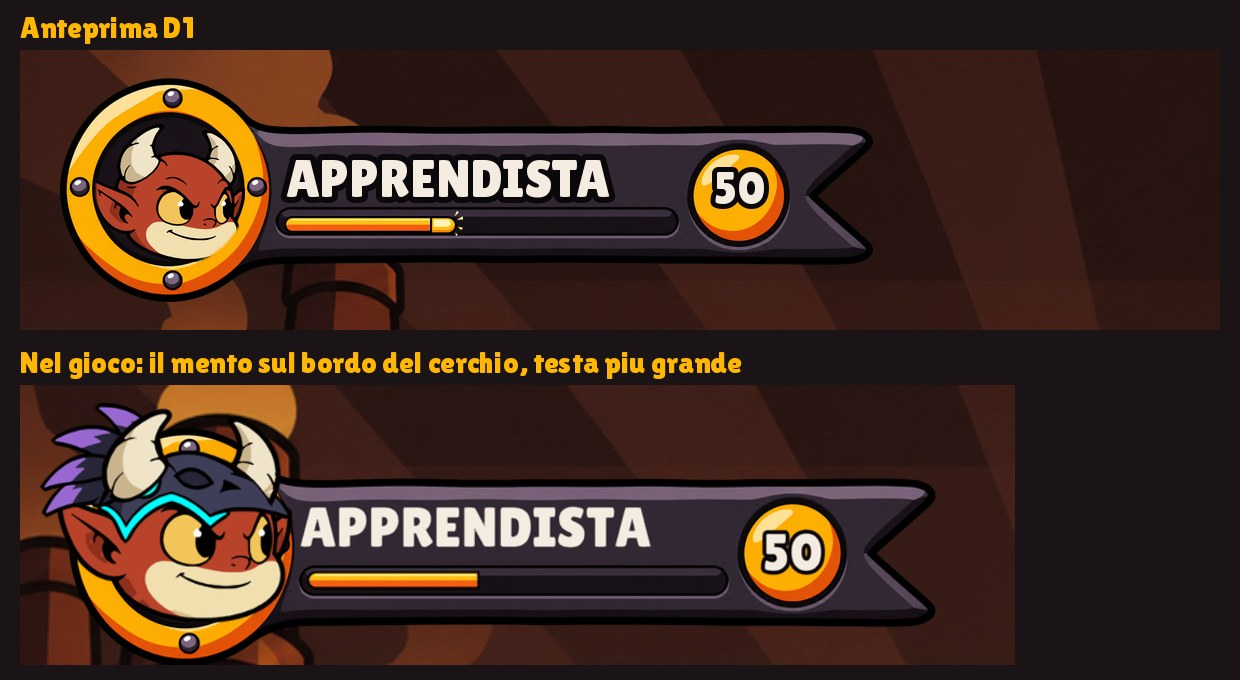
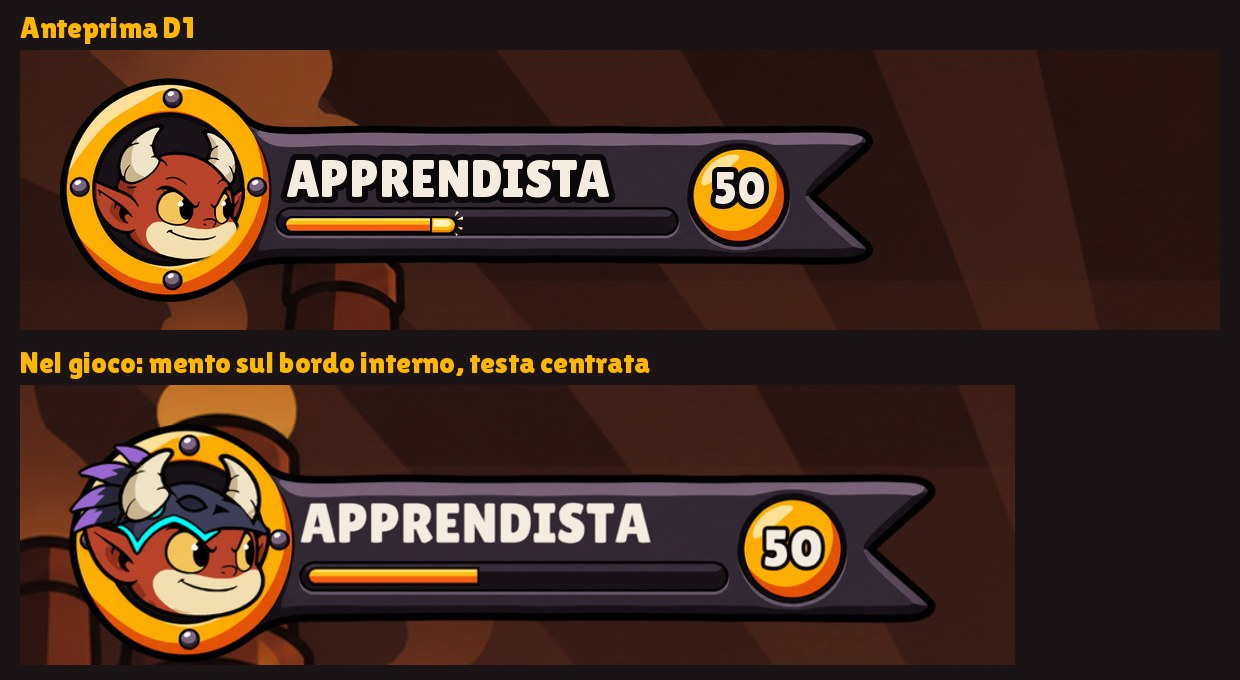
Home: testa nel cerchio col mento sul bordo interno, contorno basso dentro il disco
Claude-Session: https://claude.ai/code/session_01XmXLjkQ96F8kQsS2vjRQ5a

Changed region(s): [[0.0306, 0.5868, 0.7661, 0.9882], [0.1226, 0.4941, 0.6129, 0.5559]]

diff --git a/docs/decisioni/interfaccia.md b/docs/decisioni/interfaccia.md
@@ -185,4 +185,4 @@ codice. Regole della roadmap: [../roadmap.md](../roadmap.md) area 21.
 | 17 nov | **Correzioni dell'audit grafico** (Sergio: «Applicale tutte», più i suoi punti; pagina dell'audit https://claude.ai/artifact/LSCFSnffDdG9izNpr4Pra9; la 14, il fazzoletto blu della storia, non si fa: «non mi interessa per ora»). **Pulsante primario**: la scritta sta al centro della faccia libera della gemma (fra la fiamma e i cristalli, misurata sul disegno: `primario_*` in `pieces.lua`), alla stessa grandezza acceso e spento; anche VAI! delle vignette e OK della scheda dell'arma sono la gemma. **Targa del profilo e targhette delle valute** più grandi (la targa del 30%), senza ingrandire disegni oltre la loro risoluzione. **Pillola della coda**: una sola (guscio, pallino rovente, scritta sempre dentro, larga quanto il testo), nella home al centro sotto il filo, negli altri menu corta sotto il filo, sul podio in alto accanto al portafoglio, in partita corta accanto all'ingranaggio; via il gettone con la testa di Favilla. **Sala d'attesa** come le altre schermate: titolo giallo, la freccia in basso a sinistra esce dalla coda (c'è scritto sotto), a destra la sola piastra TORNA AI MENU · RESTI IN CODA, niente ingranaggio. **Impostazioni**: i tasti del controller su un pannello loro, due colonne fisse. **Zaino**: pezzo scelto su tre righe corte, nomi delle famiglie accanto ai pallini, VEDI TUTTE sempre alla stessa altezza (anche in Armeria e Bottega). **Campagna**: lucchetto nell'angolo, una sola griglia, nomi lunghi su due righe, targhe dei capitoli a 16. **Podio e fine livello**: guadagni su un pannello a colonne fisse, il campo si spegne sotto, RIPROVA e CAMPAGNA sotto il filo. **Profilo**: legenda PRIMARIE e SECONDARIE sopra il danno per arma; al posto dei tondi le icone dei record di Codex (WB-069, foglio 1). **HUD**: baratto, OGGETTI, ultimo giro e nome sopra il diavoletto a 16. La riga gialla sul bordo dopo le porte della home esce con la pagina. Scelte di Claude: testi più corti dove a 16 non entravano («ESCI DALLA CODA» sulla porta della campagna, «NIENTE IN ARRIVO» e «TRA 2H» sotto EVENTI); in sala d'attesa col controller B esce dalla coda e il tasto dell'ingranaggio torna ai menu; vita e stato sopra il diavoletto a 13 (a 16 sarebbero più larghi della barra); le altre scritte piccole del punteggio (TURNO, bilancio) restano come sono, l'audit non le chiedeva. | `client/ui/kit.lua`, `client/ui/pill.lua`, `client/menu/`, `client/battle/`, questa PR |
 | 18 nov | **Codice della versione nelle IMPOSTAZIONI** (Sergio: «in futuro mettilo il codice della versione», non capiva quale APK avesse installato). In basso a destra sotto il filo, piccolo e grigio (16, allineato alla scritta HOME): «VERSIONE 48aa353», lo stesso codice della didascalia di Telegram; sugli APK e sul web di un ramo «· PROVA, NON È MAIN»; sulle build fatte a mano dall'editor «VERSIONE LOCALE». Il codice lo scrivono le Actions nelle impostazioni di build (`megablast.version`, `megablast.test` in `apk.yml` e `tools/web/build.sh`). Scelte di Claude: sotto il filo e non sotto le scelte (lì toccava il filo e si leggeva male sul dipinto); niente nome del ramo (troppo lungo), basta PROVA come nella didascalia. | `client/menu/settings.lua`, questa PR |
 | 18 nov | **Scheda del pezzo unica, zaino che potenzia, schede in alto senza targhetta** (Sergio: tocco a sinistra nello zaino = solo filtro, firma che dice solo il nome, uscire dallo zaino per potenziare, livello non leggibile; «le tacchette come nell'evoluzione»; «questi pulsanti [targhe chiare] non li vorrei usare per nulla»; «non è chiaro a cosa si riferiscano queste 2100 scaglie»). La scheda dell'ARMERIA (POTENZIA) è un pezzo solo, `client/menu/bench.lua`, che lo ZAINO apre al posto della griglia: il livello sono le 30 tacche dello SCATTO (fatte nel colore del grado, la prossima brace, le grandi a 10 20 30 nel colore del grado che aprono), la firma dice cosa dà al grado acceso (spenta: cosa darà) con tre gemme, la Prova accanto al livello, il prezzo attaccato a +1 LIVELLO con «per il livello N» (o in rosso quanto manca). Nello ZAINO un pezzo indossato toccato a sinistra diventa il pezzo scelto (e la griglia mostra il suo posto); POTENZIA in basso o un secondo tocco sul pezzo apre la scheda, la freccia torna ai pezzi. Animazioni: la tacca comprata cade bianca con scintille e il pezzo prende il colpo, la gemma della firma scoppia, nello SCATTO le tacche si riempiono una a una, la scheda entra da destra. Le schede accanto al titolo (zaino, armeria, profilo, eventi) sono solo parole, con un pezzo del filo di brace sotto quella attiva che scorre quando cambi. Scelte di Claude: INDOSSA nella scheda non c'è (si indossa dalla griglia); tolta la riga «ce l'hai addosso» (lo dice la spunta sull'icona); il pulsante secondario e le monete coi colori iniziali (Ossidiana nera col filo magenta, Scaglia a scaglia con la fiammella) vanno a Codex con WB-071, fino ad allora restano le targhe chiare. | `client/menu/bench.lua`, `client/menu/backpack.lua`, `client/menu/armory.lua`, `client/ui/kit.lua`, `client/ui/step_scene.lua`, questa PR |
-| 18 nov | **Riquadro del profilo in home: lo stendardo** (Sergio: il vecchio era «tutto scomposto, non lineare, cose che sembrano sovrapposte», la barra «tutta storta»; fra le anteprime A-D coi pezzi di Codex, https://claude.ai/artifact/6BUykPA6j1pzZW9iQmRVCg, sceglie D1, «con il numero del livello centrato»). Un pezzo solo di WB-075: anello d'oro con la faccia, stendardo di ferro col nome, la barra dell'esperienza nel suo incavo dritto, il livello nella moneta d'oro (solo il numero, centrato, con il contorno d'inchiostro). Niente punta incandescente sulla barra (Sergio: «o metti bene la capocchia, oppure lasci senza»). Scartate A (medaglione col sigillo), B (una piastra sola), C (filo di brace) e D2. Poi (Sergio: «la testa un po' più grande, basta che non esca da sotto, e togliere il cerchietto rosso della squadra, tanto in home non hai una squadra»): solo la testa, più grande del disco, che esce sopra e ai lati e col mento che poggia esattamente sul bordo interno dell'anello. Scelte di Claude: nome a 26; con poca esperienza la barra resta un trattino tondo. | `client/menu/home.lua`, `tools/grafica/fucina.py`, questa PR |
+| 18 nov | **Riquadro del profilo in home: lo stendardo** (Sergio: il vecchio era «tutto scomposto, non lineare, cose che sembrano sovrapposte», la barra «tutta storta»; fra le anteprime A-D coi pezzi di Codex, https://claude.ai/artifact/6BUykPA6j1pzZW9iQmRVCg, sceglie D1, «con il numero del livello centrato»). Un pezzo solo di WB-075: anello d'oro con la faccia, stendardo di ferro col nome, la barra dell'esperienza nel suo incavo dritto, il livello nella moneta d'oro (solo il numero, centrato, con il contorno d'inchiostro). Niente punta incandescente sulla barra (Sergio: «o metti bene la capocchia, oppure lasci senza»). Scartate A (medaglione col sigillo), B (una piastra sola), C (filo di brace) e D2. Poi (Sergio: «la testa un po' più grande, basta che non esca da sotto, e togliere il cerchietto rosso della squadra, tanto in home non hai una squadra»): solo la testa, col mento che poggia esattamente sul bordo interno dell'anello, grande quanto basta perché il contorno basso resti nel disco (corna, elmo e orecchio escono). Scartata la testa più grande tagliata sul disco: restava un gradino visibile. Scelte di Claude: nome a 26; con poca esperienza la barra resta un trattino tondo. | `client/menu/home.lua`, `tools/grafica/fucina.py`, questa PR |

diff --git a/docs/handoff/WB-075_riquadro_profilo_home.md b/docs/handoff/WB-075_riquadro_profilo_home.md
@@ -133,4 +133,4 @@ Verificati i contorni scuri, i dischi del ritratto vuoti e l'assenza di scritte,
 ## Resoconto di Claude
 
 - 18 nov: Sergio sceglie lo stendardo D1 («facciamo la d1, ma con il numero del livello centrato»; della punta della barra: «o metti bene la capocchia, oppure lasci senza, non ne capisco il senso»). Nel gioco `stendardo_1` intero (`stendardo`, 805×224, a schermo alto 112) e il riempimento dritto di `barra_2` senza la punta (`barra_stendardo`, capi corti, così con poca esperienza resta corta): li taglia `fai_stendardo` in `tools/grafica/fucina.py`. `client/menu/home.lua` mette faccia, nome, barra e numero nei punti misurati sul disegno (`BANNER`); il numero è al centro della moneta, avorio con il contorno d'inchiostro. Tolti dalla home guscio, tondo, riga scura e barra di brace (restano dove li usano altre schermate). Non usati: `anello`, `piastra`, `tizzone`, `barra_1`, `stendardo_2` (restano nel ramo). Simulazione OK (scenario `riquadro_profilo.txt`), `tutti.sh` OK. Foto: `docs/handoff/img/WB-075_bozza_e_gioco.jpg` (livello 50 e barra al 42% messi a mano solo per la foto).
-- 18 nov 15:08 Sergio: testa più grande senza uscire da sotto, via il cerchio della squadra. `score.face(..., bare)` toglie disco e anello; in home la testa è larga 100 e il mento poggia esattamente sul bordo interno dell'anello (Sergio, 15:12: «la parte bassa della testa deve partire esattamente dal bordo inferiore del cerchietto»).
+- 18 nov 15:08 Sergio: testa più grande senza uscire da sotto, via il cerchio della squadra. `score.face(..., bare)` toglie disco e anello; in home il mento poggia esattamente sul bordo interno dell'anello (Sergio, 15:12: «la parte bassa della testa deve partire esattamente dal bordo inferiore del cerchietto»). Larga 100 la mascella andava sull'oro; tagliata sul disco (con la metà bassa dell'anello ridisegnata davanti) restava un gradino visibile sull'orecchio e sulla guancia, quindi la testa è larga 80, la più grande con il contorno basso dentro il disco.
